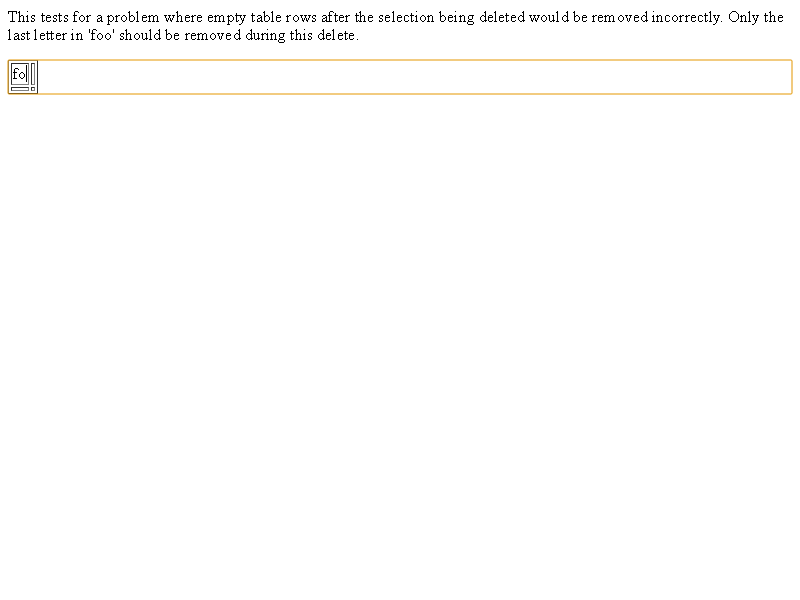
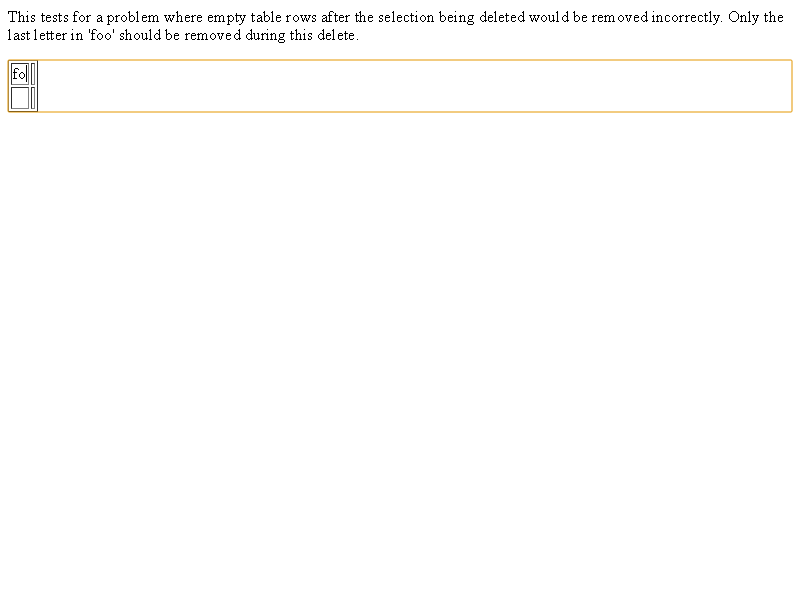
[css-tables] Fix caret position inside empty cell
Override hasLineIfEmpty() in LayoutTableCell to consider
that it has an empty line if it's editable.

This fixes the position of the caret in empty cells,
that was painted lower than expected
(and then modified when you start to edit the cell).

BUG=421716
TEST=editing/caret/caret-in-empty-cell.html

Review-Url: https://codereview.chromium.org/2601923003
Cr-Original-Commit-Position: refs/heads/master@{#441101}
Cr-Mirrored-From: https://chromium.googlesource.com/chromium/src
Cr-Mirrored-Commit: 1a4e384d607b15a408bbd7b9e6f3528fb2cc8e30

Changed region(s): [[0.0, 0.15, 1.0, 0.21]]

diff --git a/WebKit/LayoutTests/editing/caret/caret-in-empty-cell.html b/WebKit/LayoutTests/editing/caret/caret-in-empty-cell.html
@@ -1,0 +1,29 @@
+<!DOCTYPE html>
+<meta charset="utf-8">
+<title>Check caret position inside empty cell</title>
+<link rel="author" title="Manuel Rego Casasnovas" href="mailto:rego@igalia.com">
+<link rel="match" href="caret-in-empty-cell-expected.html">
+<style>
+  table {
+    font-size: 2em;
+  }
+  td {
+    padding: 5px;
+  }
+  #emptycell {
+    width: 50%;
+  }
+</style>
+
+<p>Test passes if the caret in the empty cell is inside the cell itself (that means it's vertically aligned with the reference text).</p>
+
+<table border="1" contenteditable>
+  <td>Reference text</td>
+  <td id="emptycell"></td>
+</table>
+
+<script>
+  var selection = window.getSelection();
+  var emptycell = document.getElementById("emptycell");
+  selection.collapse(emptycell, 0);
+</script>

diff --git a/WebKit/LayoutTests/editing/caret/caret-in-empty-cell-expected.html b/WebKit/LayoutTests/editing/caret/caret-in-empty-cell-expected.html
@@ -1,0 +1,29 @@
+<!DOCTYPE html>
+<meta charset="utf-8">
+<title>Check caret position inside empty cell</title>
+<link rel="author" title="Manuel Rego Casasnovas" href="mailto:rego@igalia.com">
+<style>
+  table {
+    font-size: 2em;
+  }
+  td {
+    vertical-align: top;
+    padding: 5px;
+  }
+  #emptycell {
+    width: 50%;
+  }
+</style>
+
+<p>Test passes if the caret in the empty cell is inside the cell itself (that means it's vertically aligned with the reference text).</p>
+
+<table border="1" contenteditable>
+  <td>Reference text</td>
+  <td id="emptycell"></td>
+</table>
+
+<script>
+  var selection = window.getSelection();
+  var emptycell = document.getElementById("emptycell");
+  selection.collapse(emptycell, 0);
+</script>

diff --git a/WebKit/Source/core/layout/LayoutTableCell.cpp b/WebKit/Source/core/layout/LayoutTableCell.cpp
@@ -27,6 +27,7 @@
 
 #include "core/HTMLNames.h"
 #include "core/css/StylePropertySet.h"
+#include "core/editing/EditingUtilities.h"
 #include "core/html/HTMLTableCellElement.h"
 #include "core/layout/LayoutAnalyzer.h"
 #include "core/layout/LayoutTableCol.h"
@@ -1487,6 +1488,13 @@ LayoutRect LayoutTableCell::debugRect() const {
 
 void LayoutTableCell::adjustChildDebugRect(LayoutRect& r) const {
   r.move(0, -intrinsicPaddingBefore());
+}
+
+bool LayoutTableCell::hasLineIfEmpty() const {
+  if (node() && hasEditableStyle(*node()))
+    return true;
+
+  return LayoutBlock::hasLineIfEmpty();
 }
 
 }  // namespace blink

diff --git a/WebKit/Source/core/layout/LayoutTableCell.h b/WebKit/Source/core/layout/LayoutTableCell.h
@@ -350,6 +350,8 @@ class CORE_EXPORT LayoutTableCell final : public LayoutBlockFlow {
 
   void ensureIsReadyForPaintInvalidation() override;
 
+  bool hasLineIfEmpty() const override;
+
  protected:
   void styleDidChange(StyleDifference, const ComputedStyle* oldStyle) override;
   void computePreferredLogicalWidths() override;
